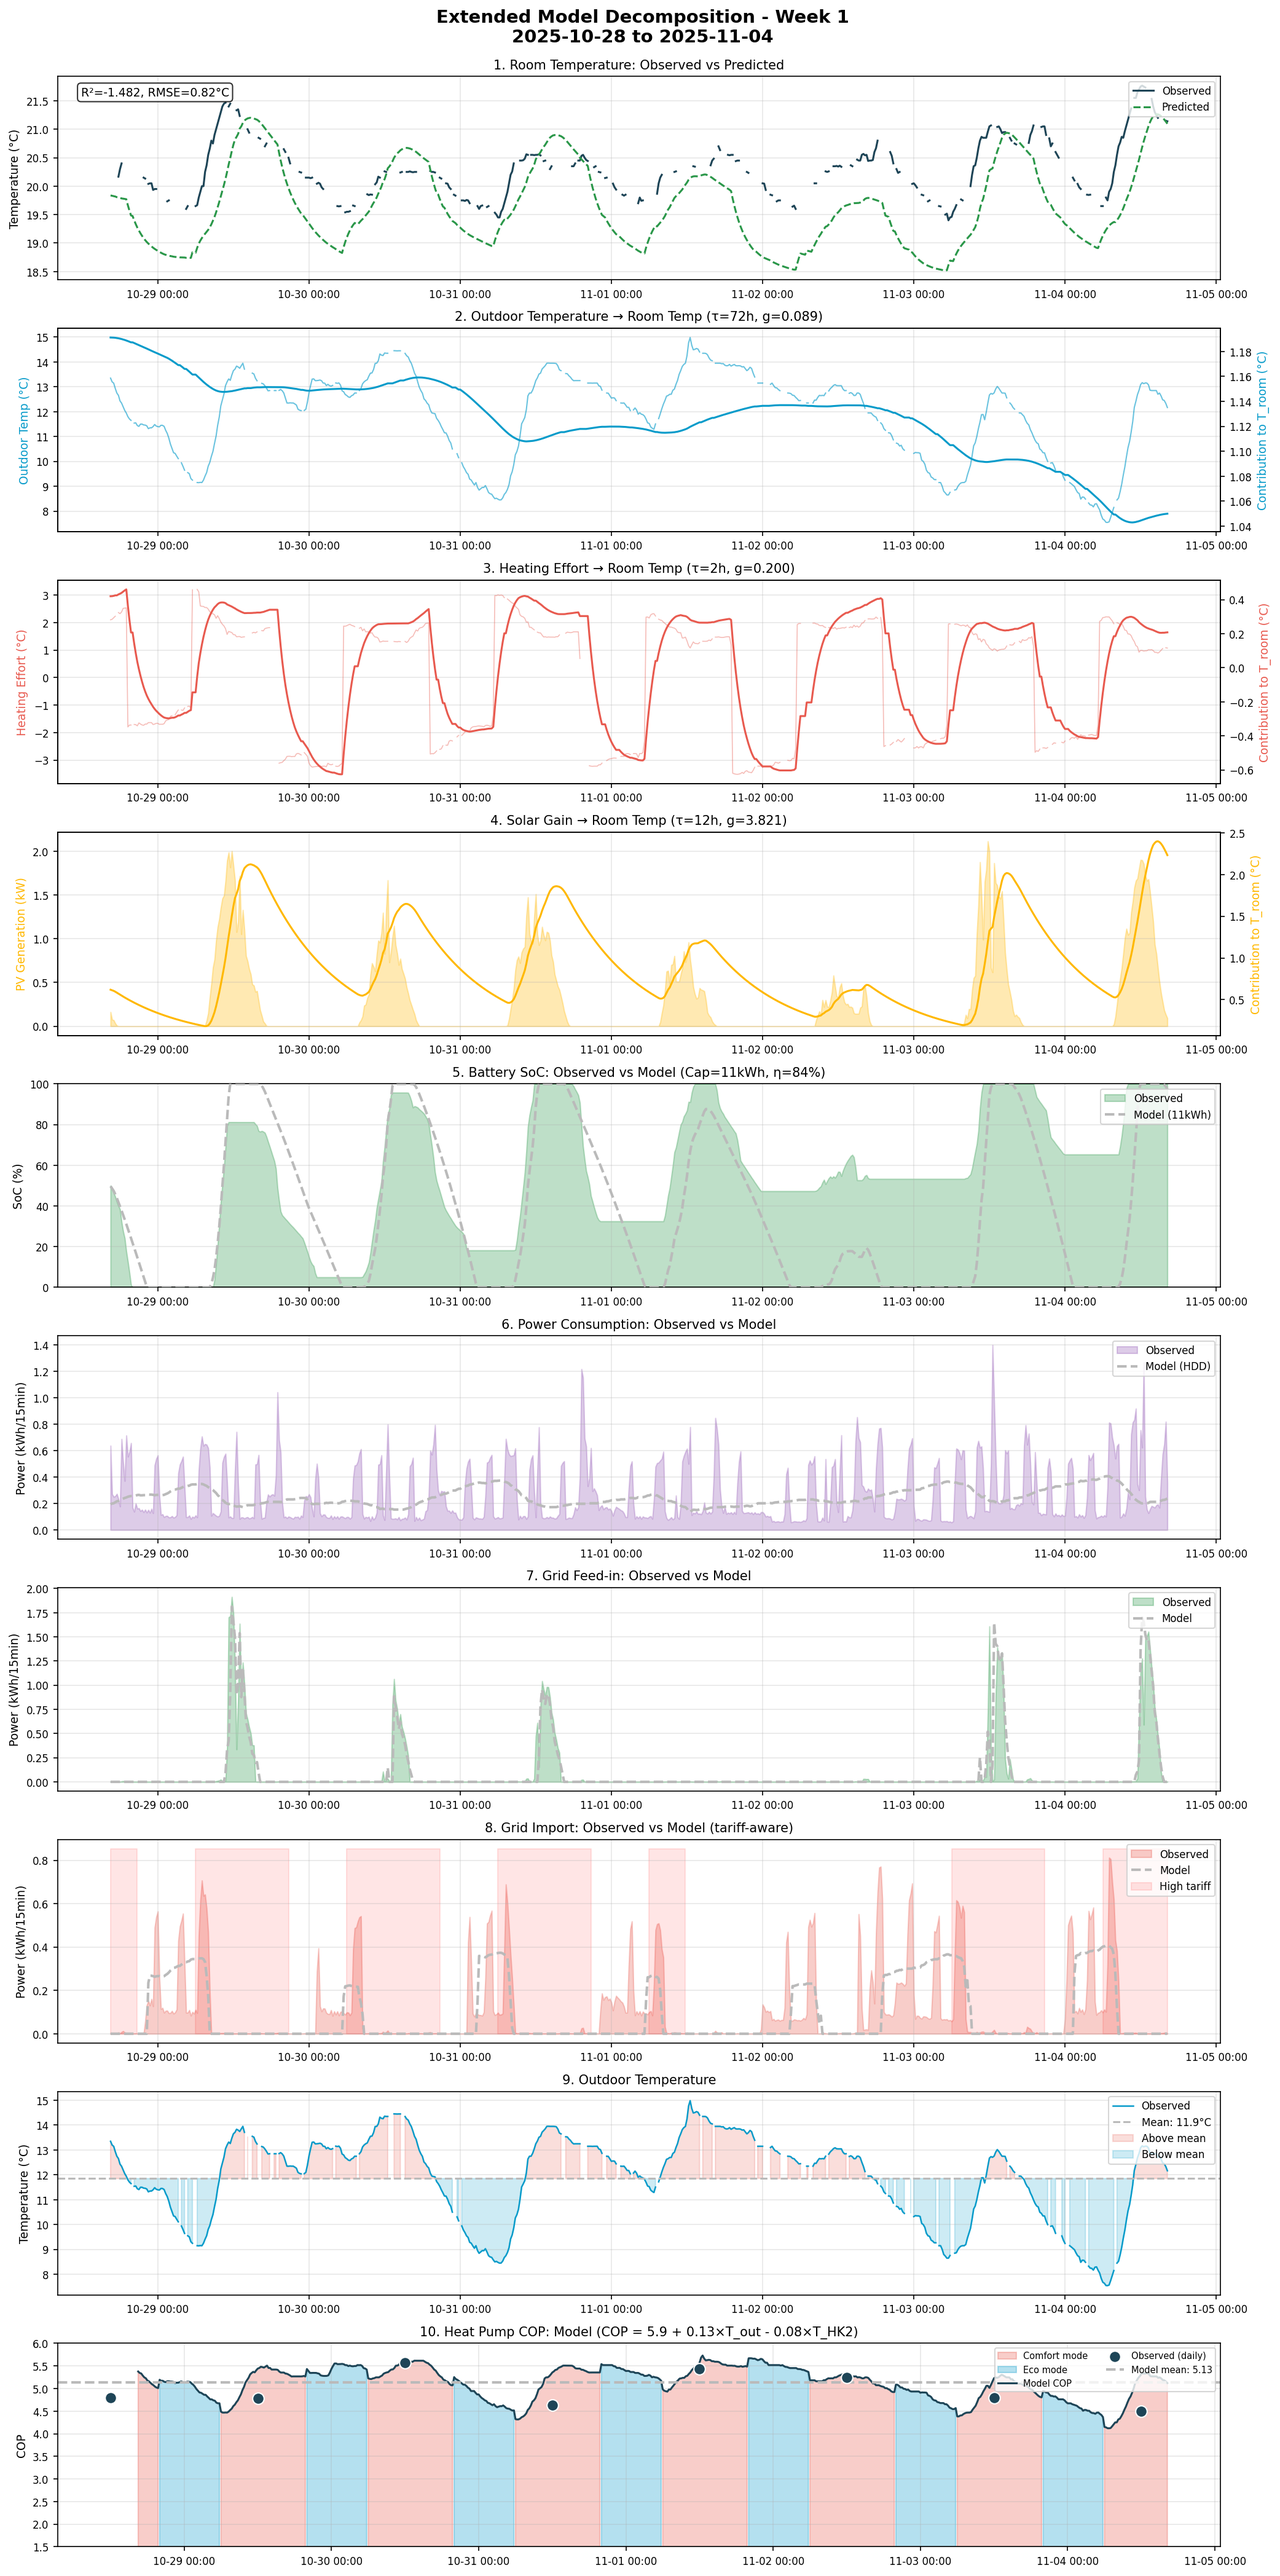
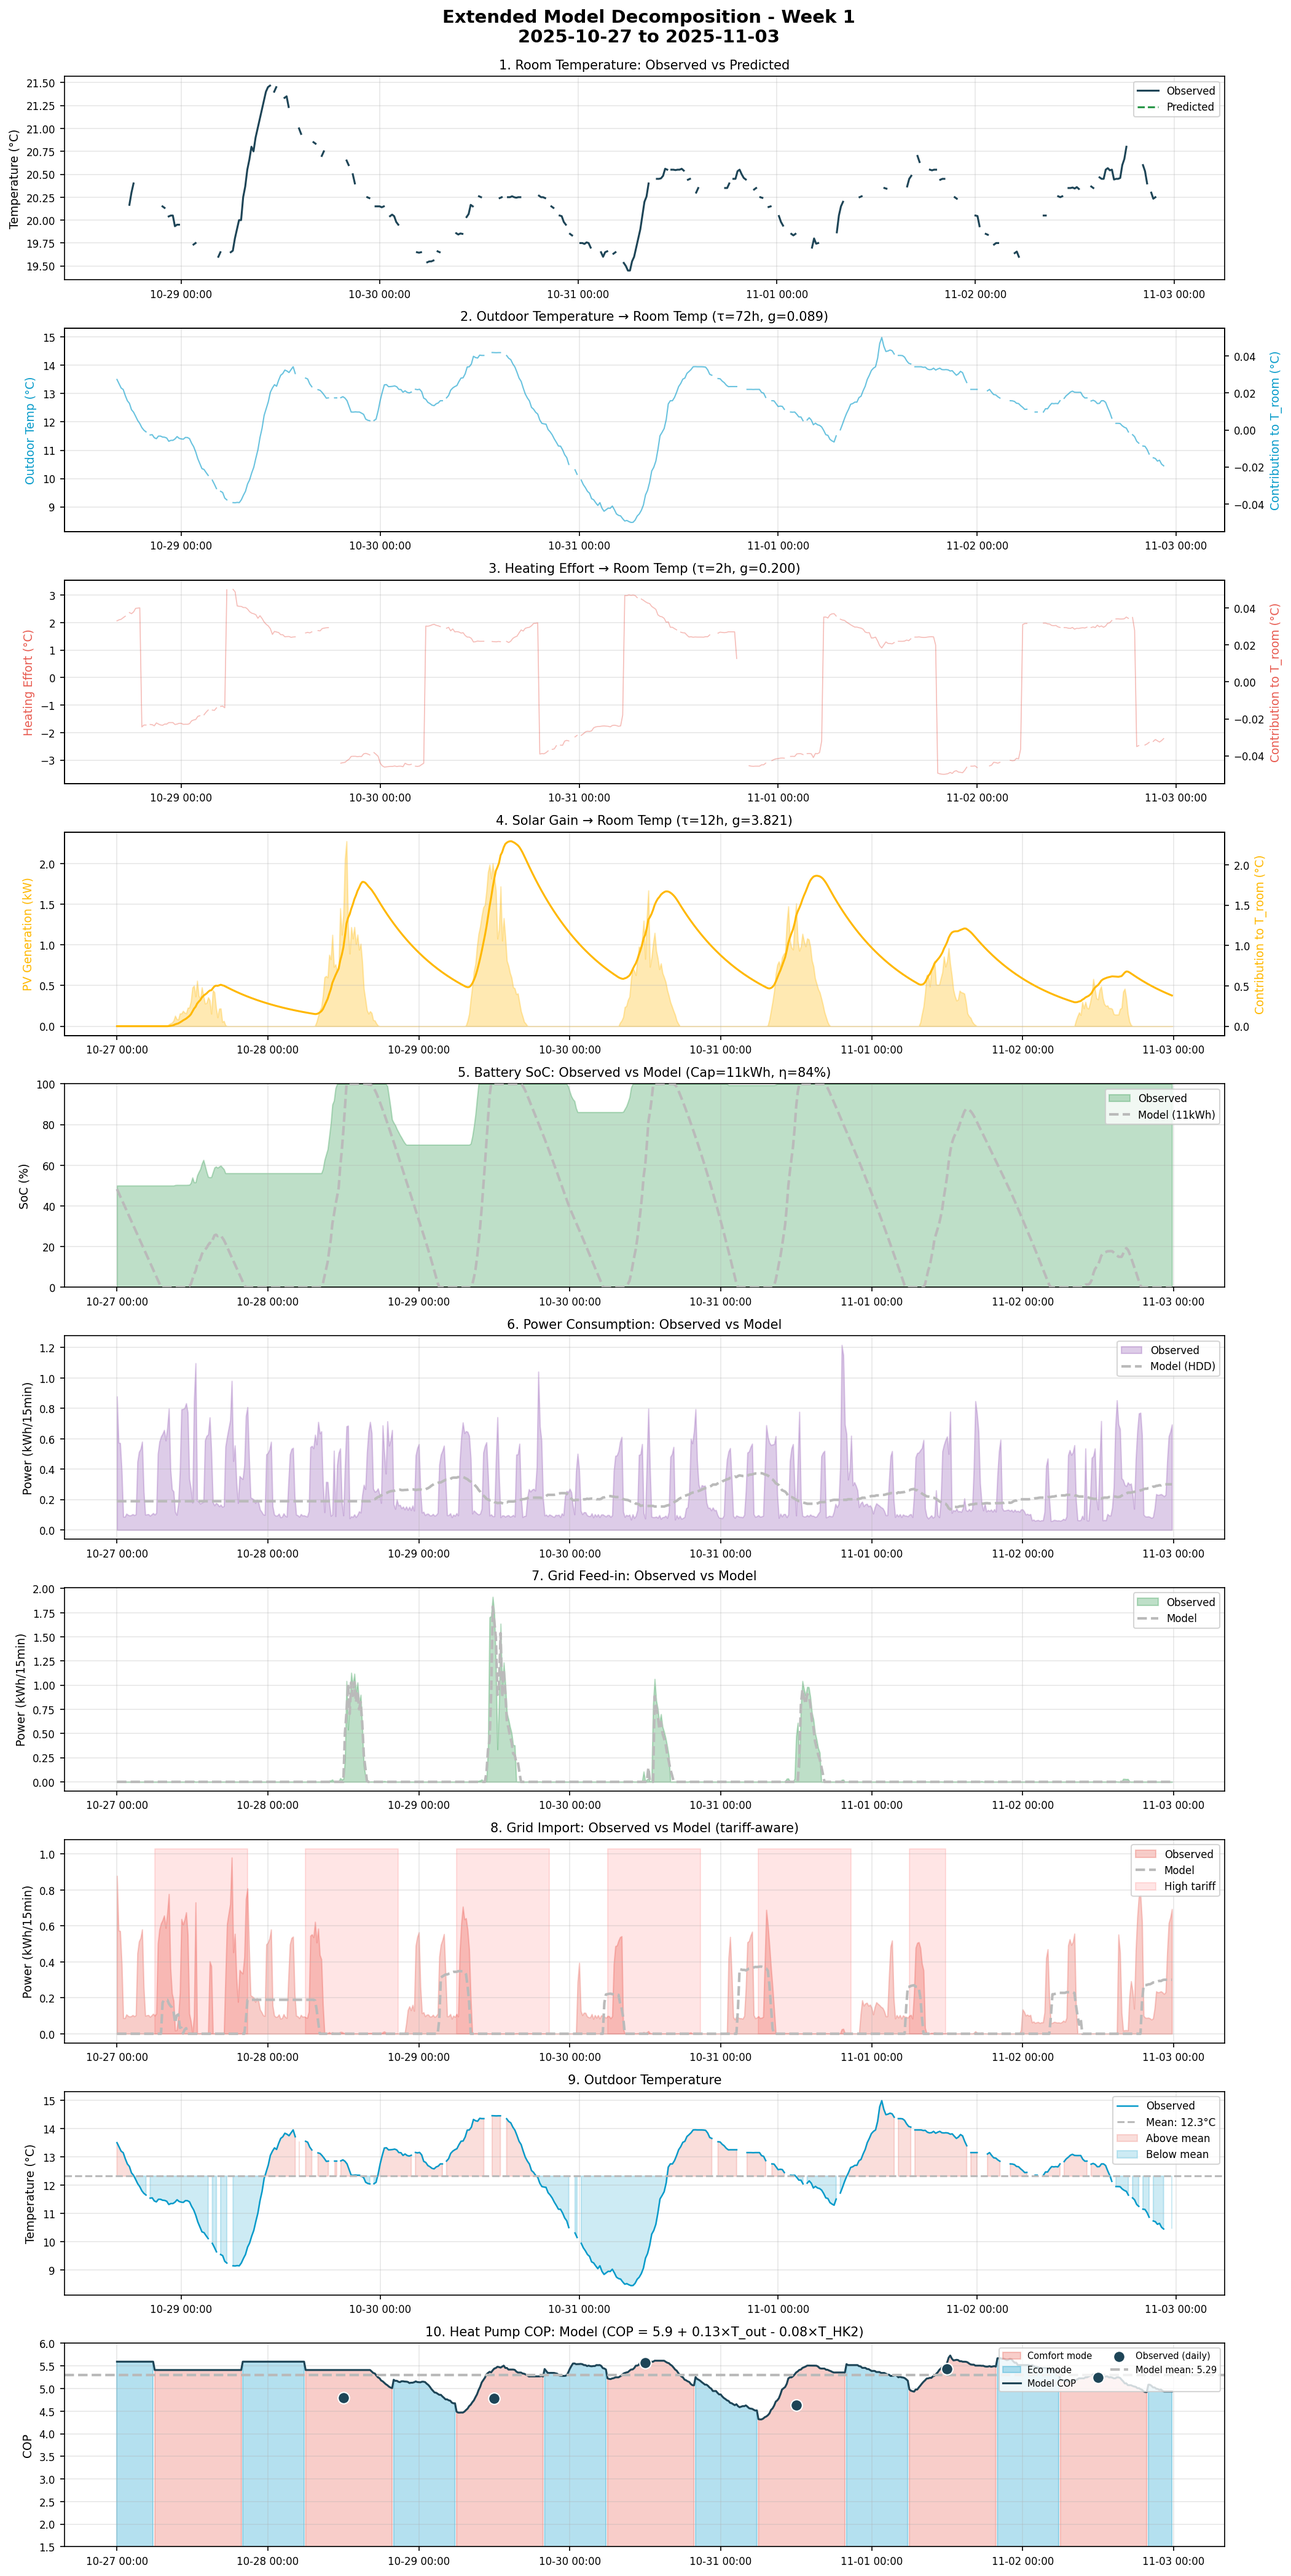
Align extended decomposition weeks with weekly decomposition
- Use ISO week boundaries (Monday start) in extended decomposition
- Match the same week detection logic as 05_weekly_decomposition.py
- Fix array length mismatch for partial final week
- All 12 weeks now have consistent start dates in both reports

🤖 Generated with [Claude Code](https://claude.com/claude-code)

diff --git a/output/phase3/weekly_decomposition/weekly_decomposition_report.html b/output/phase3/weekly_decomposition/weekly_decomposition_report.html
@@ -123,7 +123,7 @@
 </head>
 <body>
     <h1>Weekly Model Decomposition Report</h1>
-    <p><em>Generated: 2026-01-18 10:59</em></p>
+    <p><em>Generated: 2026-01-18 11:06</em></p>
 
     <div class="summary-box">
         <h3 style="margin-top: 0; border: none; padding-left: 0;">Summary</h3>

diff --git a/src/phase3/06_extended_decomposition.py b/src/phase3/06_extended_decomposition.py
@@ -369,8 +369,14 @@ def predict_intraday_energy(energy_week, t_outdoor, consumption_model):
     Returns:
         Dict with all predicted values at 15-minute resolution
     """
-    n = len(t_outdoor)
+    # Use energy_week length as reference (may differ from t_outdoor for partial weeks)
+    n = len(energy_week)
     dt = 0.25  # 15-minute intervals
+
+    # Align t_outdoor to energy_week length
+    if len(t_outdoor) != n:
+        # Interpolate or truncate t_outdoor to match energy_week
+        t_outdoor = t_outdoor[:n] if len(t_outdoor) > n else np.pad(t_outdoor, (0, n - len(t_outdoor)), mode='edge')
 
     # 1. Predict consumption from temperature (HDD model)
     if consumption_model:
@@ -834,17 +840,29 @@ def main():
     # Generate weekly decomposition figures
     print("\nGenerating weekly extended decomposition figures...")
 
-    # Find all weeks with sufficient data (including partial final week)
-    weeks = []
-    current = overlap_start
-    while current < overlap_end:
-        week_end = min(current + pd.Timedelta(days=7), overlap_end)
-        # Include week if it has at least 2 days of data
-        if (week_end - current).days >= 2:
-            weeks.append((current, week_end))
-        current = current + pd.Timedelta(days=7)
+    # Use same week boundaries as 05_weekly_decomposition.py (ISO weeks, Monday start)
+    # Filter to valid data range
+    mask = (integrated.index >= overlap_start) & (integrated.index <= overlap_end)
+    valid_data = integrated.loc[mask, ['davis_inside_temperature', 'stiebel_eltron_isg_outdoor_temperature']].dropna()
 
-    print(f"  Found {len(weeks)} weeks")
+    # Group by ISO week and count points
+    valid_data = valid_data.copy()
+    valid_data['week'] = valid_data.index.to_period('W').start_time
+    week_counts = valid_data.groupby('week').size()
+
+    # Require at least 2 days of data (2 × 96 = 192 points per day)
+    min_points = 2 * 96
+    valid_weeks = week_counts[week_counts >= min_points].index.tolist()
+
+    # Build week list with start/end dates (matching weekly_decomposition.py)
+    weeks = []
+    for week_start in sorted(valid_weeks):
+        week_end = week_start + pd.Timedelta(days=7)
+        # Clip to overlap_end for partial final week
+        week_end = min(week_end, overlap_end + pd.Timedelta(days=1))
+        weeks.append((week_start, week_end))
+
+    print(f"  Found {len(weeks)} weeks (ISO week boundaries)")
 
     for i, (start, end) in enumerate(weeks):
         week_num = i + 1
